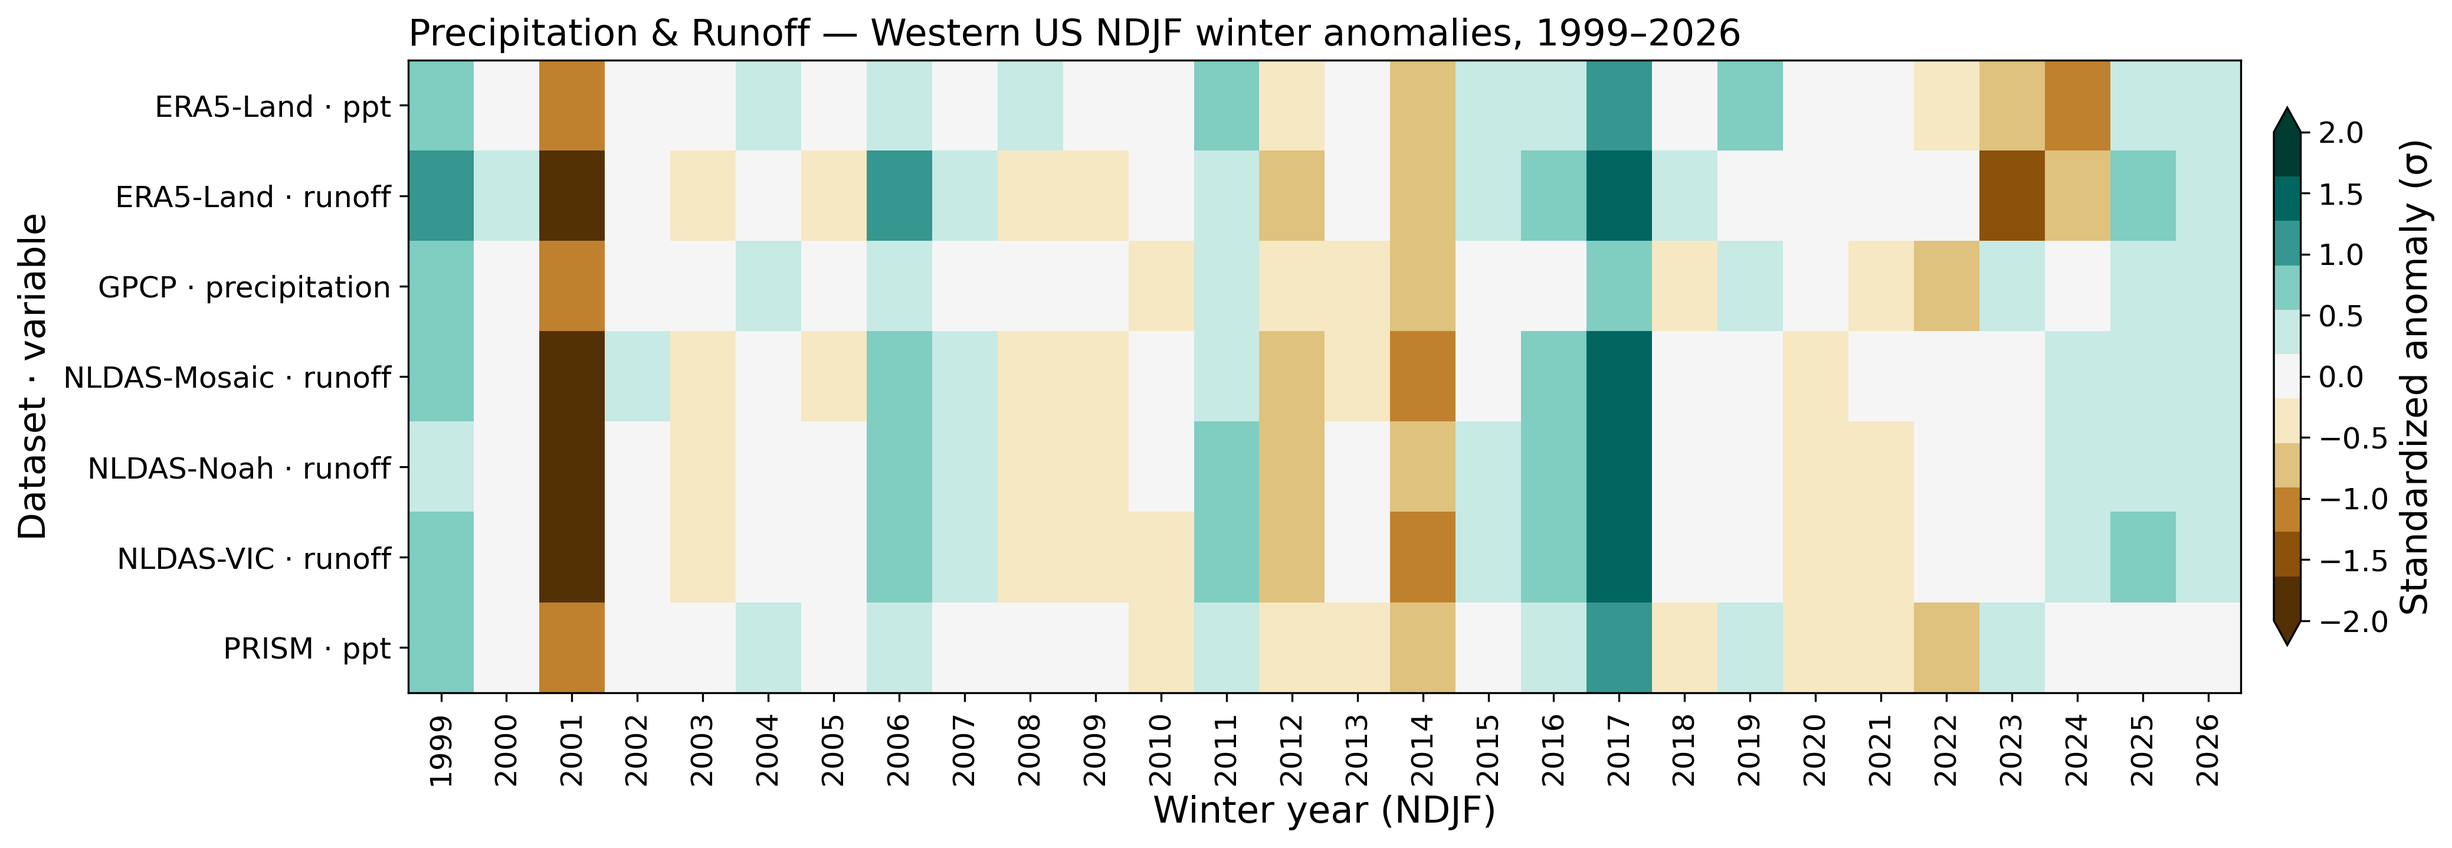
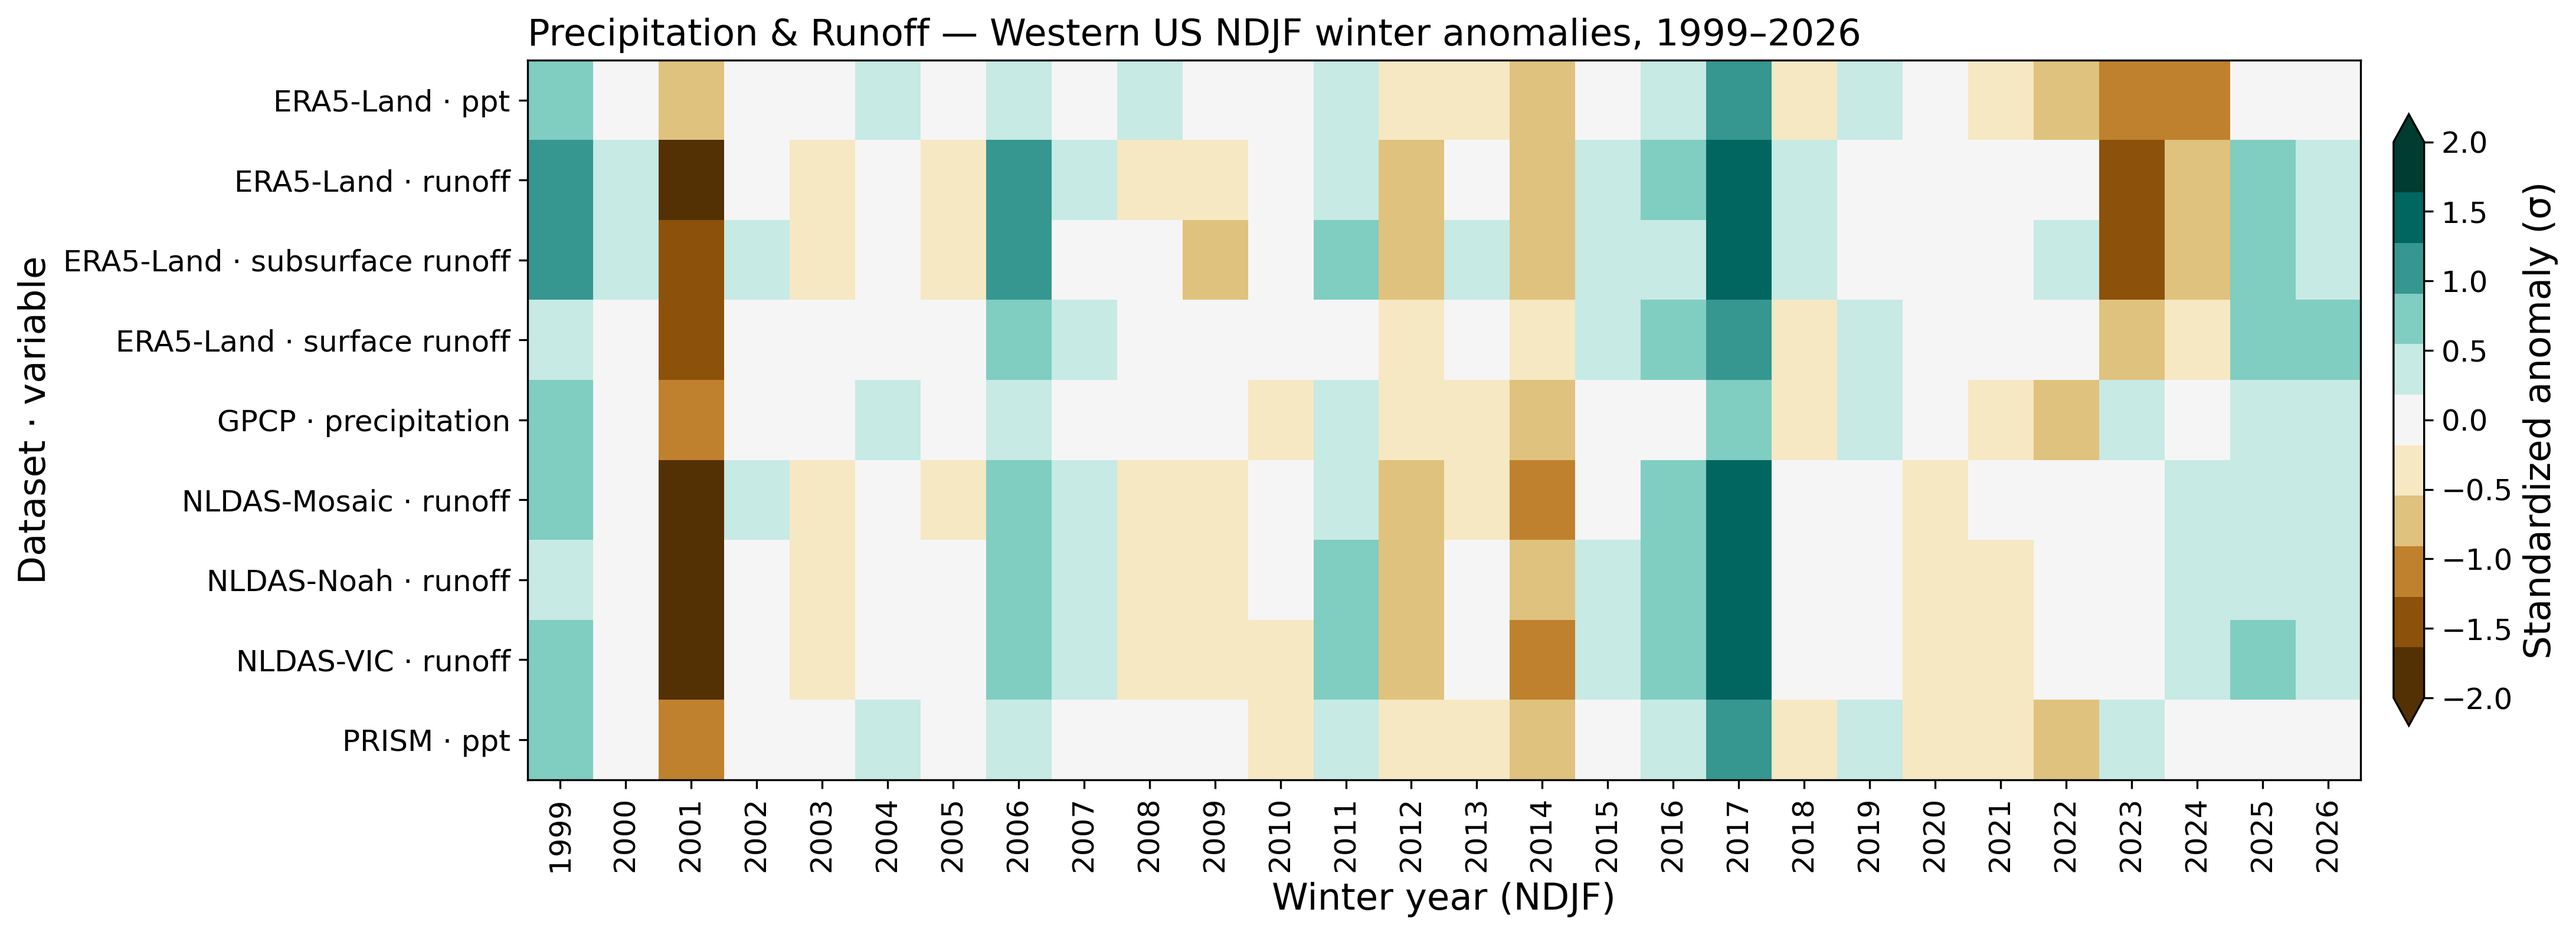
Unify Explorer/Compare fetch caching onto common.js's shared cache; filter heatmap family view to products with an established aggregation rule; use the shared DASHBOARD_MIN_YEAR constant instead of a hardcoded 1990 on the About coverage chart. Refresh heatmap PNGs.

diff --git a/js/explore.js b/js/explore.js
@@ -17,7 +17,6 @@ const explorerState = {
   seasonalSeries: "raw",
   timeseriesStartYear: null, // null = full record
   extraYears: [], // user-added seasonal-chart years, beyond manifest.seasonal_highlight_years
-  seriesCache: {},
 };
 
 // Distinct from manifest.seasonal_highlight_year_colors (an orange/red
@@ -304,13 +303,13 @@ function renderActiveView() {
   else renderSeasonal();
 }
 
-async function fetchSeries(kind) {
-  const key = `${kind}:${explorerState.product}_${explorerState.response}`;
-  if (!explorerState.seriesCache[key]) {
-    const response = await fetch(assetUrl(`data/${kind}/${explorerState.product}_${explorerState.response}.json`));
-    explorerState.seriesCache[key] = await response.json();
-  }
-  return explorerState.seriesCache[key];
+// Delegates to js/common.js's shared per-page caches (fetchTimeseriesJson /
+// fetchSeasonalJson) instead of keeping its own -- the same product/response
+// JSON is also fetched by the Compare view below whenever that product
+// happens to be checked there too.
+function fetchSeries(kind) {
+  const key = `${explorerState.product}_${explorerState.response}`;
+  return kind === "timeseries" ? fetchTimeseriesJson(key) : fetchSeasonalJson(key);
 }
 
 async function renderTimeseries() {
@@ -465,8 +464,6 @@ const compareState = {
   // rebuilt the legend from the hardcoded default, silently discarding
   // whatever the user had checked/unchecked (Dylan, 2026-09).
   checkedByCategory: {},
-  cache: {},
-  seasonalCache: {},
 };
 const CATEGORY_OVERLAY_COLORS = [
   "#205493", "#a0290f", "#2e8540", "#946e00", "#5c3d99",
@@ -499,22 +496,6 @@ function initCompareView() {
   });
 
   renderCategoryOverlay();
-}
-
-async function fetchCompareSeries(key) {
-  if (!compareState.cache[key]) {
-    const res = await fetch(assetUrl(`data/timeseries/${key}.json`));
-    compareState.cache[key] = await res.json();
-  }
-  return compareState.cache[key];
-}
-
-async function fetchCompareSeasonal(key) {
-  if (!(key in compareState.seasonalCache)) {
-    const res = await fetch(assetUrl(`data/seasonal/${key}.json`));
-    compareState.seasonalCache[key] = res.ok ? await res.json() : null;
-  }
-  return compareState.seasonalCache[key];
 }
 
 function plotlyLayout() {
@@ -575,13 +556,15 @@ async function renderCategoryOverlay() {
   // each one's seasonal JSON too, for the vegetation category's growing-
   // season mask) -- some categories have 15-27 products, and awaiting each
   // fetch in turn meant a full re-render waited on that many sequential
-  // network round-trips (fetchCompareSeries/fetchCompareSeasonal's own
-  // caches still apply per key either way).
+  // network round-trips (fetchTimeseriesJson/fetchSeasonalJson's shared
+  // per-page caches, js/common.js, still apply per key either way -- also
+  // shared with the single-product Explorer view above, so switching between
+  // Explorer and Compare on the same product never re-fetches it).
   const seriesList = await Promise.all(
-    pairs.map(({ product, response }) => fetchCompareSeries(`${product}_${response}`))
+    pairs.map(({ product, response }) => fetchTimeseriesJson(`${product}_${response}`))
   );
   const seasonalList = category === "vegetation"
-    ? await Promise.all(pairs.map(({ product, response }) => fetchCompareSeasonal(`${product}_${response}`)))
+    ? await Promise.all(pairs.map(({ product, response }) => fetchSeasonalJson(`${product}_${response}`)))
     : null;
 
   const traces = [];

diff --git a/js/heatmaps.js b/js/heatmaps.js
@@ -84,13 +84,23 @@ async function fetchHeatmapSeries(key) {
   return fetchTimeseriesJson(key);
 }
 
-function heatmapPairs(category) {
+function heatmapPairs(category, family) {
   const pairs = [];
   const cats = category === "all" ? manifest.category_order : [category];
   cats.forEach((cat) => {
     const products = manifest.categories[cat] || {};
     for (const [product, responses] of Object.entries(products)) {
-      for (const response of Object.keys(responses)) pairs.push({ product, response });
+      for (const [response, entry] of Object.entries(responses)) {
+        // "monthly" reads each stored per-month sigma directly -- no
+        // aggregation involved, so it's fine even for products (e.g. NEON
+        // NEE) with no established multi-month aggregation rule. Every other
+        // family aggregates across a season/month window via
+        // computeWindowValue(), same as js/summary.js -- exclude those
+        // products here too, for the same reason summary.js does (see its
+        // own "no established aggregation rule" comment).
+        if (family !== "monthly" && !entry.aggregation) continue;
+        pairs.push({ product, response });
+      }
     }
   });
   return pairs;
@@ -112,7 +122,7 @@ function latestRecordEndMonth() {
 
 async function renderHeatmap() {
   const chart = document.getElementById("heatmap-chart");
-  const pairs = heatmapPairs(heatmapState.category);
+  const pairs = heatmapPairs(heatmapState.category, heatmapState.family);
   if (pairs.length === 0) {
     chart.innerHTML = '<p class="chart-empty">No products in this category.</p>';
     return;

diff --git a/js/about.js b/js/about.js
@@ -61,7 +61,7 @@ function renderCoverageChart() {
   const layout = {
     margin: { t: 20, r: 20, b: 45, l: 180 },
     barmode: "stack",
-    xaxis: { type: "date", title: "Record coverage", range: ["1990-01-01", latestEnd] },
+    xaxis: { type: "date", title: "Record coverage", range: [`${DASHBOARD_MIN_YEAR}-01-01`, latestEnd] },
     yaxis: { automargin: true },
     font: { family: "Source Sans Pro, sans-serif", size: 12 },
     height: Math.max(400, rows.length * 16 + 100),
